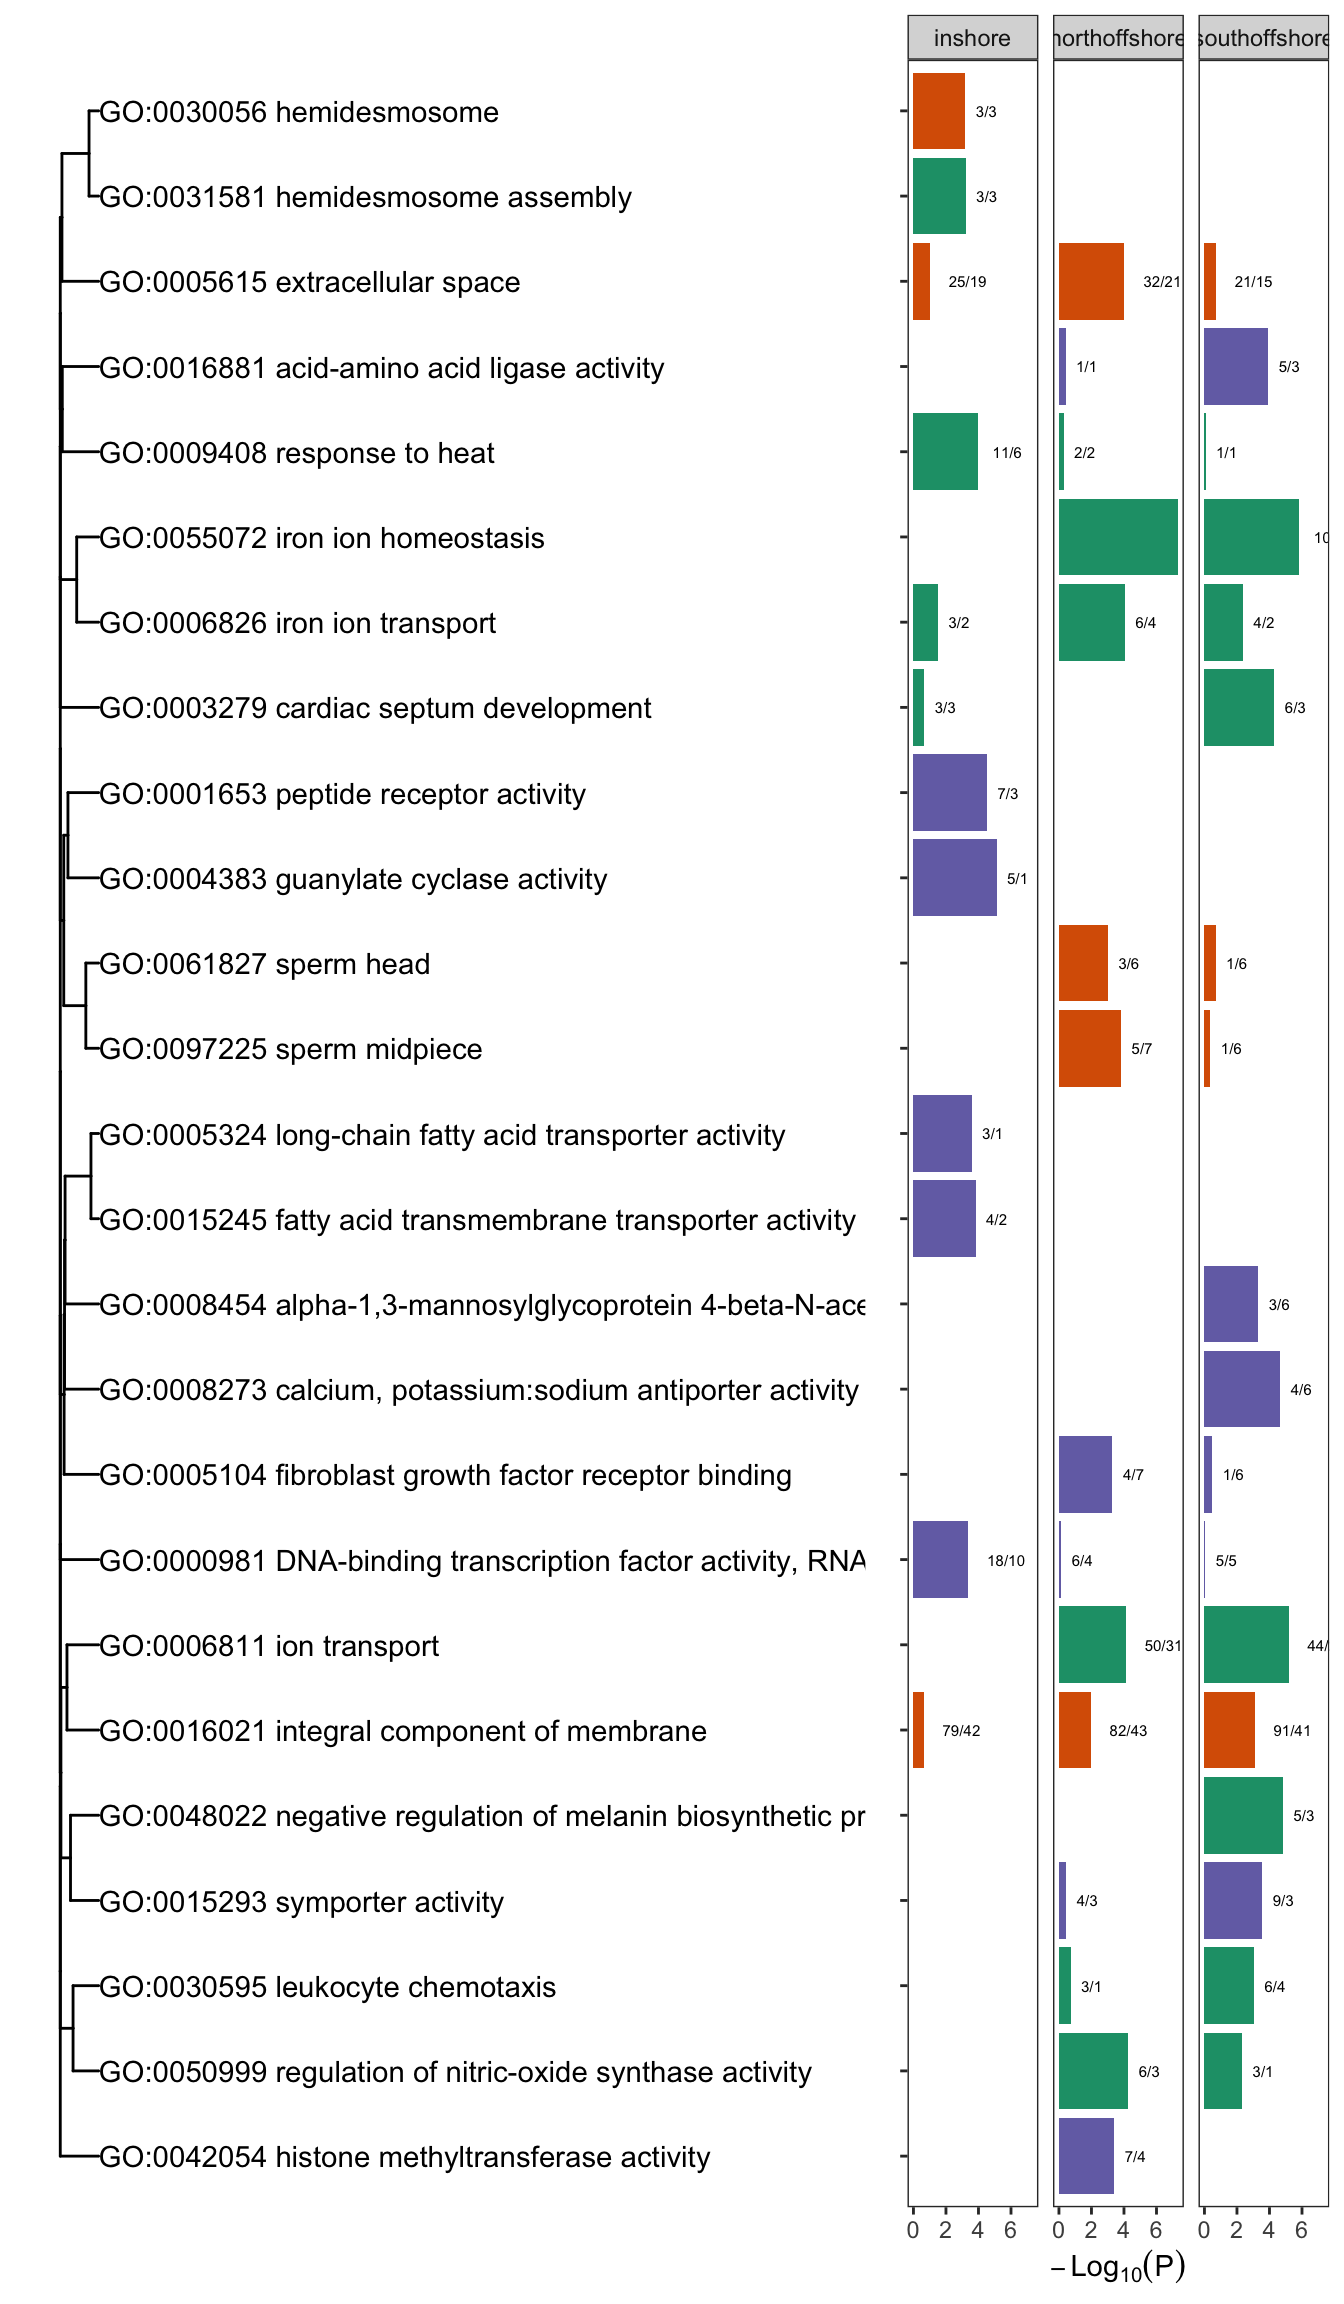
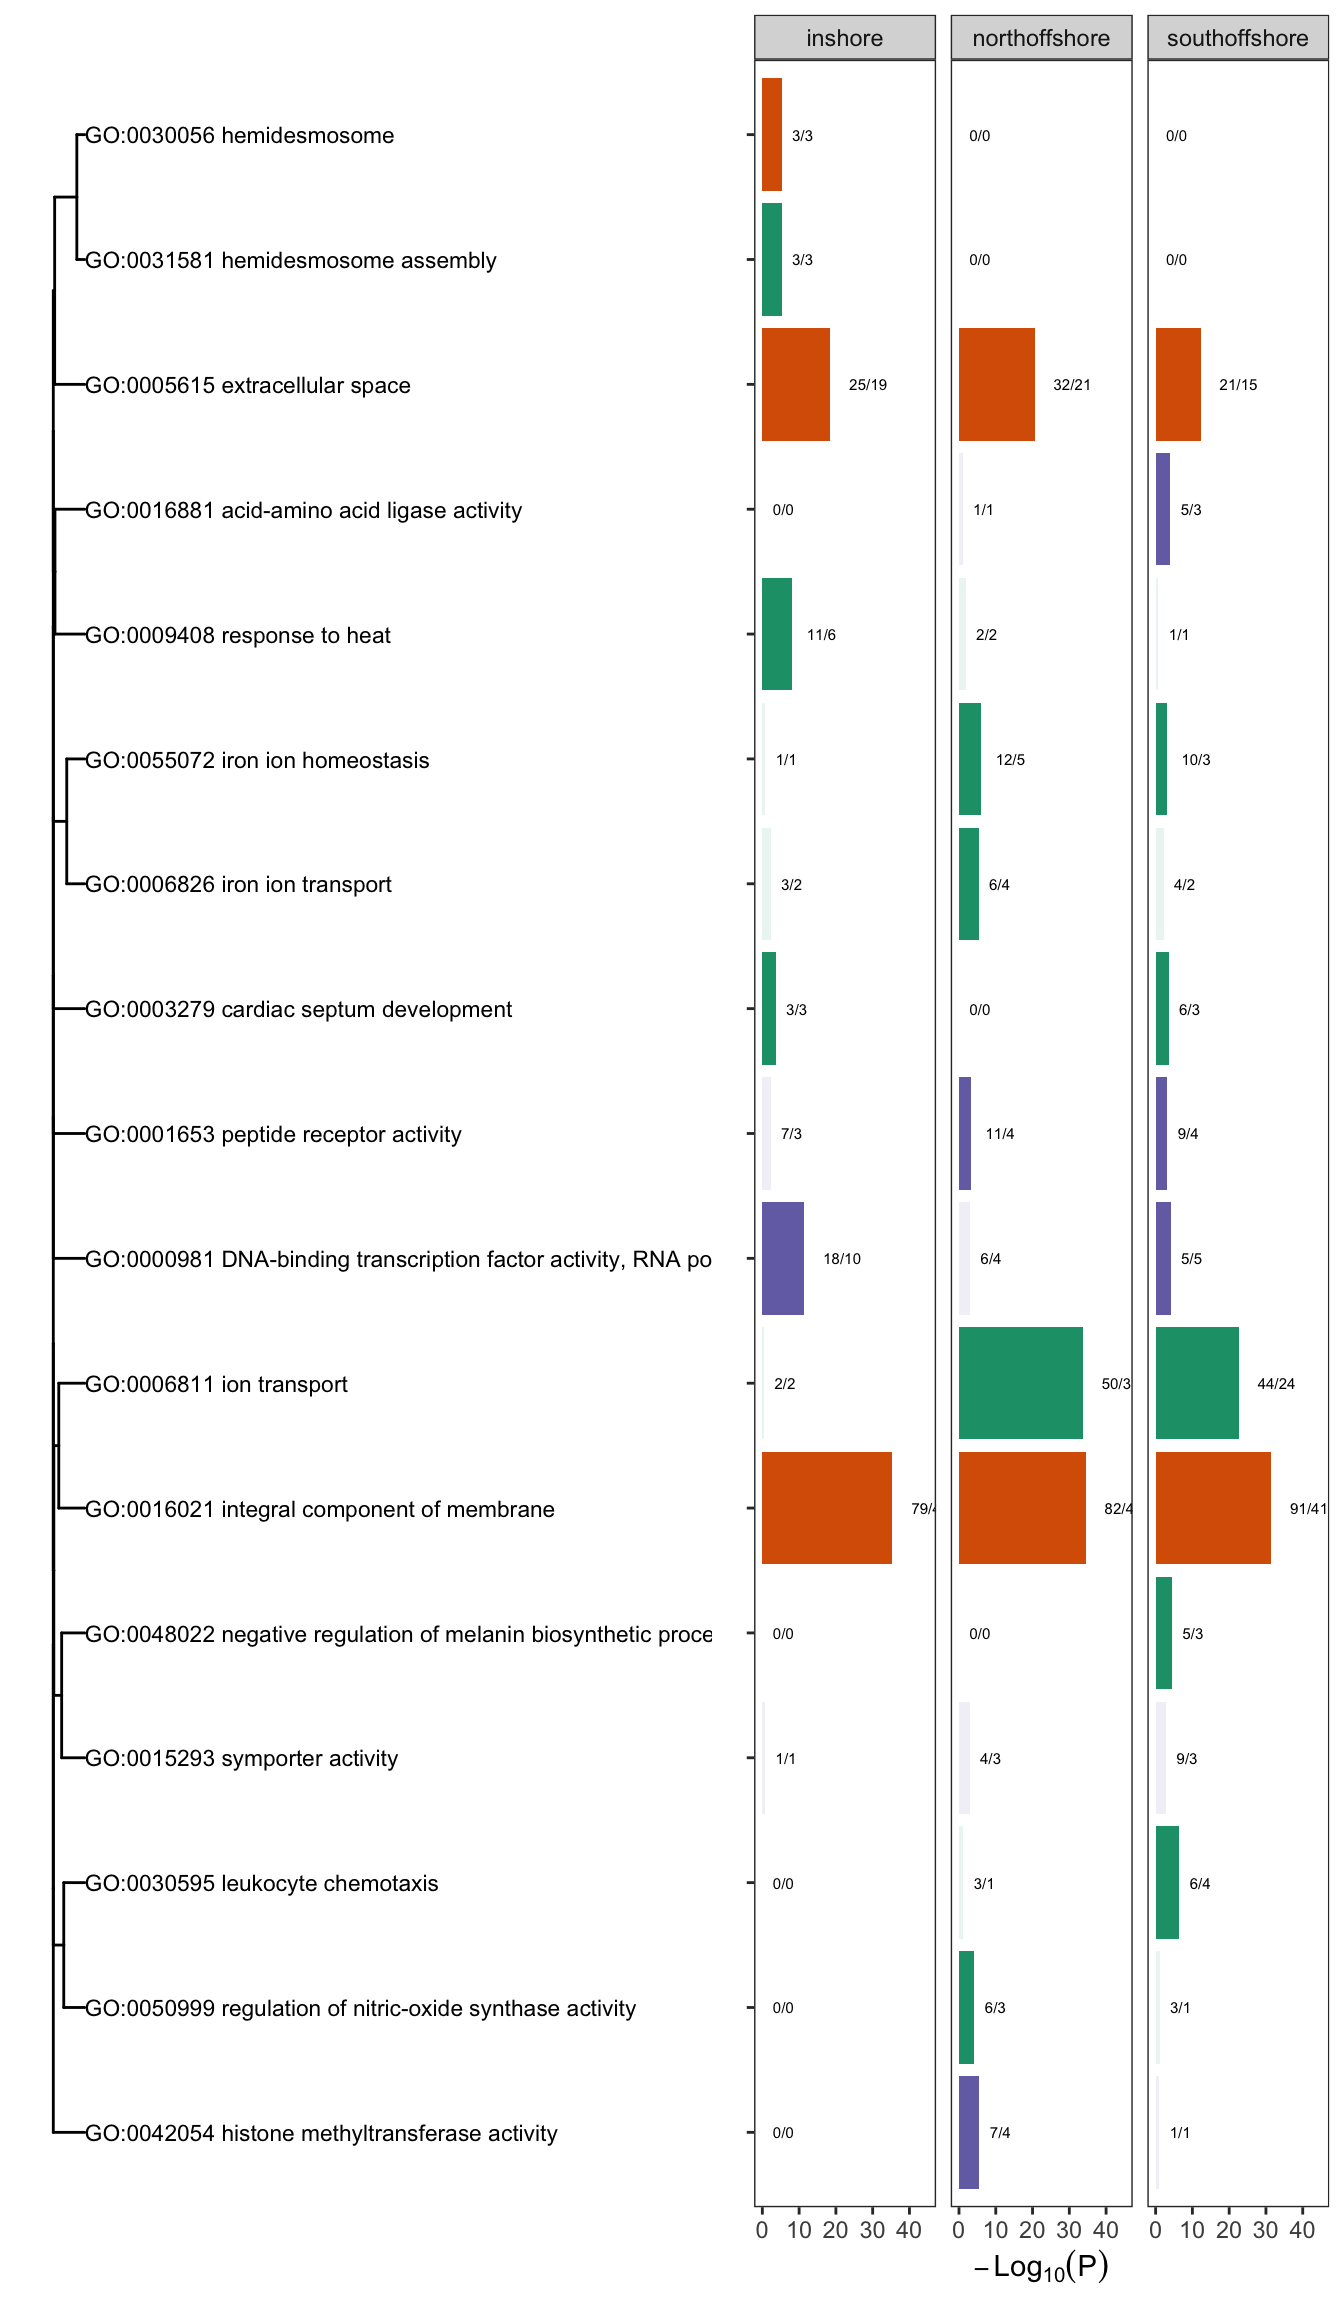
Remove Venn from GO because numbers are out of date. Also add region based stats to GO enrichment

diff --git a/11.GO_enrichment.md b/11.GO_enrichment.md
@@ -2,7 +2,7 @@ Gene Ontology Enrichment analysis
 ================
 
 In a previous analysis (see
-[10.identify\_selective\_genomic\_windows](10.identify_selective_genomic_windows.md)
+[10.identify_selective_genomic_windows](10.identify_selective_genomic_windows.md)
 we identified a total of 231 candidate selective sweep regions. A
 summary of sweep regions and the number of genes covered by them in each
 population is shown below;
@@ -13,22 +13,22 @@ population is shown below;
 | northoffshore |      364 |       79 |
 | southoffshore |      361 |       80 |
 
-<img src="figures/venndiagram_inshore.png" width="33%" /><img src="figures/venndiagram_northoffshore.png" width="33%" /><img src="figures/venndiagram_southoffshore.png" width="33%" />
-
-**Figure 1: Three strategies used to identify a list of genes related to
-local adaptation in three populations. The iHS (blue) has more unique
-selection candidate sets. The XP-EHH (light yellow) and XP-nSL (red)
-selection candidate sets shared more gene sets since they both are able
-to detect selective sweep that are fixed or nearly fixed.**
-
 We then used `topGO` to identify GO terms that were enriched in the gene
-sets covered by selective sweeps in each population. In all cases
-enrichment was calculated by considering the target set as the set of
-all genes intersecting with selective sweeps in a given population, and
-the background set was taken as the complete set of annotated genes for
-*A. digitifera*.
+sets covered by selective sweeps in each population. Enrichment was
+initially calculated in a gene centric manner because GO terms are most
+properly interpreted as attached to genes not regions, however, since
+genomic regions and not genes are the independent units in this analysis
+we then recalculated enrichment statistics in a region centric manner
+for all GO terms found to be enriched in the initial analysis. The gene
+centric analysis considered each gene as an independent entity and
+considered the target set as the set of all genes intersecting with
+selective sweeps in a given population, and the background set was taken
+as the complete set of annotated genes for *A. digitifera*. The region
+centric analysis considered the target set as all candidate sweeps for a
+population and the background set as the complete set of all 50kb
+regions on which EHH statistics were calculated.
 
-We found a total of 3865 GO terms enriched (p&lt;0.001) across all three
+We found a total of 3865 GO terms enriched (p\<0.001) across all three
 of the locations. These are summarised in Figure 2.
 
 <img src="11.GO_enrichment_files/figure-gfm/unnamed-chunk-6-1.png" width="672" />
